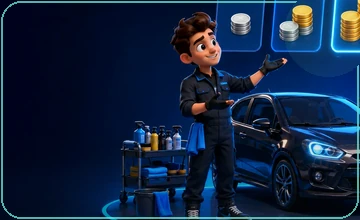
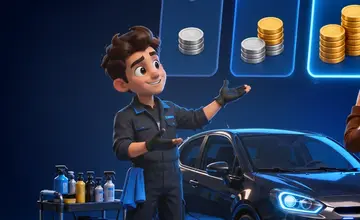
bugs ilustrações 4

diff --git a/src/components/SceneAnimation.tsx b/src/components/SceneAnimation.tsx
@@ -7,6 +7,10 @@ import polishingScene from '../assets/scenes/polishing.webp';
 import pricingScene from '../assets/scenes/pricing.webp';
 import complaintScene from '../assets/scenes/complaint.webp';
 import growthScene from '../assets/scenes/growth.webp';
+import resultFragileScene from '../assets/scenes/result-fragile.webp';
+import resultPromisingScene from '../assets/scenes/result-promising.webp';
+import resultSustainableScene from '../assets/scenes/result-sustainable.webp';
+import resultExcellentScene from '../assets/scenes/result-excellent.webp';
 import type { CSSProperties } from 'react';
 import type { AnimationScene } from '../types/config';
 import styles from './SceneAnimation.module.css';
@@ -56,12 +60,28 @@ const sceneMap: Record<AnimationScene, { src: string; alt: string }> = {
     src: growthScene,
     alt: 'Ilustração 3D de crescimento do negócio e conquista de estrelas.',
   },
+  'result-fragile': {
+    src: resultFragileScene,
+    alt: 'Ilustração 3D de resultado final com clima mais cauteloso e necessidade de recompor a operação.',
+  },
+  'result-promising': {
+    src: resultPromisingScene,
+    alt: 'Ilustração 3D de resultado final com sinais positivos, mas ainda pedindo ajustes para estabilizar o negócio.',
+  },
+  'result-sustainable': {
+    src: resultSustainableScene,
+    alt: 'Ilustração 3D de resultado final com equilíbrio operacional e crescimento sustentável.',
+  },
+  'result-excellent': {
+    src: resultExcellentScene,
+    alt: 'Ilustração 3D de resultado final com excelente desempenho e forte sensação de progresso.',
+  },
 };
 
 export function SceneAnimation({ scene }: SceneAnimationProps) {
   const current = sceneMap[scene] ?? sceneMap.garage;
 
-  const style = { '--scene-image': `url(\"${current.src}\")` } as CSSProperties;
+  const style = { '--scene-image': `url("${current.src}")` } as CSSProperties;
 
   return (
     <div className={`${styles.scene} ${styles[scene] ?? ''}`} aria-hidden="true" style={style}>

diff --git a/src/features/game/GamePage.tsx b/src/features/game/GamePage.tsx
@@ -136,7 +136,7 @@ export function GamePage() {
     return (
       <main className={styles.page}>
         <section className={styles.resultHero}>
-          <SceneAnimation scene="growth" />
+          <SceneAnimation scene={getResultScene(result.bandId)} />
           <div className={styles.resultContent}>
             <span className={styles.kicker}>Resultado final da fase 1</span>
             <h1>{band.title}</h1>
@@ -320,13 +320,11 @@ export function GamePage() {
           <div className={styles.storyOverlay}>
             <div className={styles.storyTopbar}>
               <span className={styles.phaseBadge}>{currentPhase}</span>
-              <span className={styles.turnBadge}>Etapa {phaseStep}/{phaseTotal}</span>
             </div>
             <div className={styles.storyProgress}>
-              <small>{run.currentDecisionIndex + 1} / {config.scenario.decisions.length}</small>
+              <small>{run.currentDecisionIndex + 1}/{config.scenario.decisions.length}</small>
               <div><i style={{ width: `${progress}%` }} /></div>
             </div>
-            <span className={styles.kicker}>{currentDecision.eyebrow}</span>
             <h1>{currentDecision.title}</h1>
             <p>{currentDecision.situation}</p>
           </div>
@@ -405,6 +403,20 @@ export function GamePage() {
       )}
     </main>
   );
+}
+
+function getResultScene(bandId: GameResult["bandId"]): "result-fragile" | "result-promising" | "result-sustainable" | "result-excellent" {
+  switch (bandId) {
+    case "excellent":
+      return "result-excellent";
+    case "sustainable":
+      return "result-sustainable";
+    case "promising":
+      return "result-promising";
+    case "fragile":
+    default:
+      return "result-fragile";
+  }
 }
 
 function FeedbackModal({

diff --git a/src/utils/preloadVisualAssets.ts b/src/utils/preloadVisualAssets.ts
@@ -7,6 +7,10 @@ import polishingScene from '../assets/scenes/polishing.webp';
 import pricingScene from '../assets/scenes/pricing.webp';
 import complaintScene from '../assets/scenes/complaint.webp';
 import growthScene from '../assets/scenes/growth.webp';
+import resultFragileScene from '../assets/scenes/result-fragile.webp';
+import resultPromisingScene from '../assets/scenes/result-promising.webp';
+import resultSustainableScene from '../assets/scenes/result-sustainable.webp';
+import resultExcellentScene from '../assets/scenes/result-excellent.webp';
 import garageChoice from '../assets/choices/garage.webp';
 import storeChoice from '../assets/choices/store.webp';
 import mobileChoice from '../assets/choices/mobile.webp';
@@ -45,6 +49,10 @@ const visualAssets = [
   pricingScene,
   complaintScene,
   growthScene,
+  resultFragileScene,
+  resultPromisingScene,
+  resultSustainableScene,
+  resultExcellentScene,
   garageChoice,
   storeChoice,
   mobileChoice,

diff --git a/src/components/SceneAnimation.module.css b/src/components/SceneAnimation.module.css
@@ -26,6 +26,10 @@
 .pricing { --scene-x: 54%; }
 .complaint { --scene-x: 60%; }
 .growth { --scene-x: 62%; }
+.result-fragile { --scene-x: 62%; }
+.result-promising { --scene-x: 62%; }
+.result-sustainable { --scene-x: 62%; }
+.result-excellent { --scene-x: 62%; }
 
 .image {
   position: absolute;
@@ -264,8 +268,7 @@
 .store .strategyPulse,
 .mobile .strategyPulse { display: flex; }
 .washing .waterSpray { display: block; }
-.polishing .polishingGlow,
-.interior .polishingGlow { display: block; }
+.polishing .polishingGlow { display: block; }
 .pricing .priceCards { display: flex; }
 .complaint .alertPulse { display: grid; }
 .growth .rewardStars { display: block; }

diff --git a/src/types/config.ts b/src/types/config.ts
@@ -87,7 +87,11 @@ export type AnimationScene =
   | 'interior'
   | 'pricing'
   | 'complaint'
-  | 'growth';
+  | 'growth'
+  | 'result-fragile'
+  | 'result-promising'
+  | 'result-sustainable'
+  | 'result-excellent';
 
 export interface DecisionConfig {
   id: string;
